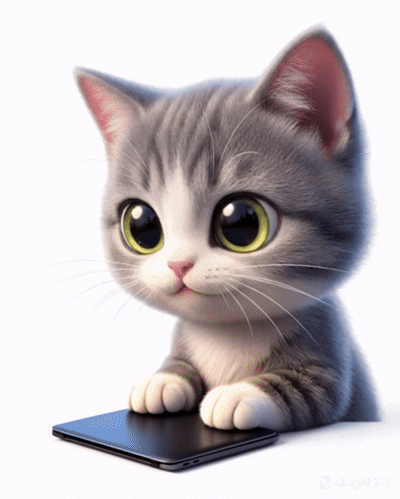
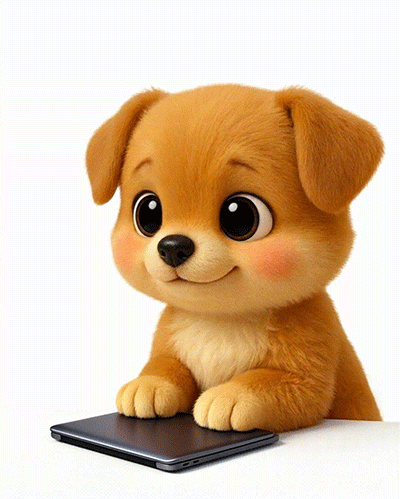
동물추가, 프로그램 종료시 closed 처리, 오프라인친구 숨김처리

diff --git a/hud.py b/hud.py
@@ -1,4 +1,5 @@
 import sys
+from datetime import datetime, timezone, timedelta
 from PyQt6.QtWidgets import QApplication, QWidget, QLabel, QHBoxLayout, QVBoxLayout
 from PyQt6.QtGui import QPixmap, QMovie
 from PyQt6.QtCore import Qt, QSize, pyqtSignal, QObject
@@ -8,6 +9,15 @@ from menu.settings import SettingsMenu
 from group import get_my_groups
 from firebase import get_db
 import threading
+
+
+def _is_offline(friend_data):
+    if not friend_data.get("is_online", False):
+        return True
+    last_seen = friend_data.get("last_seen")
+    if last_seen is None:
+        return True
+    return (datetime.now(timezone.utc) - last_seen) > timedelta(minutes=10)
 
 
 # [동물 카드]
@@ -33,7 +43,7 @@ class AnimalCard(QWidget):
         self.nickname_label = QLabel(self.nickname)
         self.nickname_label.setAlignment(Qt.AlignmentFlag.AlignCenter)
         self.nickname_label.adjustSize()
-        self.nickname_label.setStyleSheet("color: white;")
+        self.nickname_label.setStyleSheet("color: #fff;")
 
         self.main_layout.addWidget(self.img_label)
         self.main_layout.addWidget(self.nickname_label, alignment=Qt.AlignmentFlag.AlignHCenter)
@@ -84,6 +94,7 @@ class AnimalCard(QWidget):
 
 class FriendStatusUpdater(QObject):
     status_changed = pyqtSignal(str)
+    go_offline = pyqtSignal()
 
     def __init__(self, card):
         super().__init__()
@@ -182,9 +193,13 @@ class HUDWindow(QWidget):
                 if member_id != self.user_data["user_id"]:  # 나 제외
                     friend_ids.add(member_id)
 
-        # 친구 카드 추가
+        # 온라인 친구 카드만 추가
+        online_ids = set()
         for friend_id in friend_ids:
             friend_data = db.collection("users").document(friend_id).get().to_dict()
+            if _is_offline(friend_data):
+                continue
+            online_ids.add(friend_id)
             card = AnimalCard(
                 user_id=friend_id,
                 nickname=friend_data["nickname"],
@@ -196,11 +211,11 @@ class HUDWindow(QWidget):
             self.add_listener(friend_id, card)
 
         # 창 크기 자동 조절
-        card_count = len(friend_ids) + 1
+        card_count = len(online_ids) + 1
         card_width = 80
         new_width = card_width * card_count
 
-        print(f"friend_ids: {friend_ids}")
+        print(f"online_ids: {online_ids}")
         print(f"card_count: {card_count}")
         print(f"layout count: {self.main_layout.count()}")  
         self.resize(card_width * card_count, 100)
@@ -226,15 +241,32 @@ class HUDWindow(QWidget):
         self.load_friend_cards()
 
 
+    def remove_friend_card(self, card):
+        self.main_layout.removeWidget(card)
+        card.setParent(None)
+        count = self.main_layout.count()
+        new_width = 80 * count
+        self.setMaximumSize(new_width, 200)
+        self.resize(new_width, self.height())
+        screen = QApplication.primaryScreen().geometry()
+        self.move(
+            screen.width() - self.width() - 20,
+            screen.height() - self.height() - 85
+        )
+
     def add_listener(self, user_id, card):
         updater = FriendStatusUpdater(card)
         self.updaters = getattr(self, 'updaters', [])
         self.updaters.append(updater)  # 가비지 컬렉션 방지
+        updater.go_offline.connect(lambda: self.remove_friend_card(card))
 
         def on_snapshot(doc_snapshot, changes, read_time):
             for doc in doc_snapshot:
-                status = doc.to_dict()["status"]
-                updater.status_changed.emit(status)
+                data = doc.to_dict()
+                if _is_offline(data):
+                    updater.go_offline.emit()
+                    return
+                updater.status_changed.emit(data.get("status", "closed"))
 
         db = get_db()
         db.collection("users").document(user_id).on_snapshot(on_snapshot)

diff --git a/activity.py b/activity.py
@@ -1,5 +1,6 @@
 from pynput import keyboard, mouse
 from firebase import get_db
+from firebase_admin import firestore as firestore_module
 from PyQt6.QtCore import QObject, pyqtSignal
 import threading
 
@@ -21,8 +22,9 @@ class ActivitySignal(QObject):
     def __init__(self, user_id):
         super().__init__()
         self.user_id = user_id
-        self.current_status = "closed"      # 인스턴스 변수
-        self.timer = None                   # 인스턴스 변수
+        self.current_status = "closed"
+        self.timer = None
+        self.heartbeat_timer = None
 
     # 움직임 감지시 호출되는 함수
     def on_activity(self):
@@ -76,9 +78,36 @@ class ActivitySignal(QObject):
 
 
 
+    def _heartbeat(self):
+        try:
+            self.db.collection("users").document(self.user_id).update({
+                "last_seen": firestore_module.SERVER_TIMESTAMP
+            })
+        except Exception:
+            pass
+        self.heartbeat_timer = threading.Timer(300, self._heartbeat)
+        self.heartbeat_timer.daemon = True
+        self.heartbeat_timer.start()
+
+    def set_offline(self):
+        if self.heartbeat_timer:
+            self.heartbeat_timer.cancel()
+        self.db.collection("users").document(self.user_id).update({
+            "status": "closed",
+            "is_online": False
+        })
+
     # 키보드/마우스 이벤트 감지 시작
     def start_monitoring(self):
-        self.update_status("closed")
+        self.db.collection("users").document(self.user_id).update({
+            "status": "closed",
+            "is_online": True,
+            "last_seen": firestore_module.SERVER_TIMESTAMP
+        })
+
+        self.heartbeat_timer = threading.Timer(300, self._heartbeat)
+        self.heartbeat_timer.daemon = True
+        self.heartbeat_timer.start()
 
         # 키보드 감지
         self.listener_kb = keyboard.Listener(on_press=lambda key: self.on_activity())

diff --git a/signup_window.py b/signup_window.py
@@ -21,11 +21,12 @@ class SignupWindow(QWidget):
 
         # Nickname 입력창
         self.nickname_input = QLineEdit()
-        self.nickname_input.setPlaceholderText("닉네임 입력")
+        self.nickname_input.setPlaceholderText("닉네임 입력 (최대 4글자)")
+        self.nickname_input.setMaxLength(4) 
 
         # 동물 선택 드롭박스
         self.animal_combo = QComboBox()
-        self.animal_combo.addItems(["cat", "dog", "rabbit"])
+        self.animal_combo.addItems(["cat", "dog", "rabbit", "bear", "panda", "tiger"])
 
         # 버튼
         self.signup_btn = QPushButton("회원가입")

diff --git a/menu/nickname.py b/menu/nickname.py
@@ -16,7 +16,8 @@ class NicknameDialog(QDialog):
 
         # 입력창
         self.input = QLineEdit()
-        self.input.setPlaceholderText("변경할 닉네임 입력")
+        self.input.setPlaceholderText("변경할 닉네임 입력 (최대 4글자)")
+        self.input.setMaxLength(4)
 
         # 버튼들
         self.save_btn = QPushButton("저장")

diff --git a/menu/animal.py b/menu/animal.py
@@ -15,7 +15,7 @@ class AnimalDialog(QDialog):
 
         # 드롭박스
         self.combo = QComboBox()
-        self.combo.addItems(["cat", "dog", "rabbit"])  # 동물 목록
+        self.combo.addItems(["cat", "dog", "rabbit", "bear", "panda", "tiger"])  # 동물 목록
 
         # 버튼
         self.save_btn = QPushButton("저장")

diff --git a/tray.py b/tray.py
@@ -36,6 +36,7 @@ class TrayIcon:
     def on_quit(self):
         self.window.monitor.listener_kb.stop()
         self.window.monitor.listener_ms.stop()
+        self.window.monitor.set_offline()
         self.icon.stop()
         QMetaObject.invokeMethod(self.window, "close", Qt.ConnectionType.QueuedConnection)
         os._exit(0)
